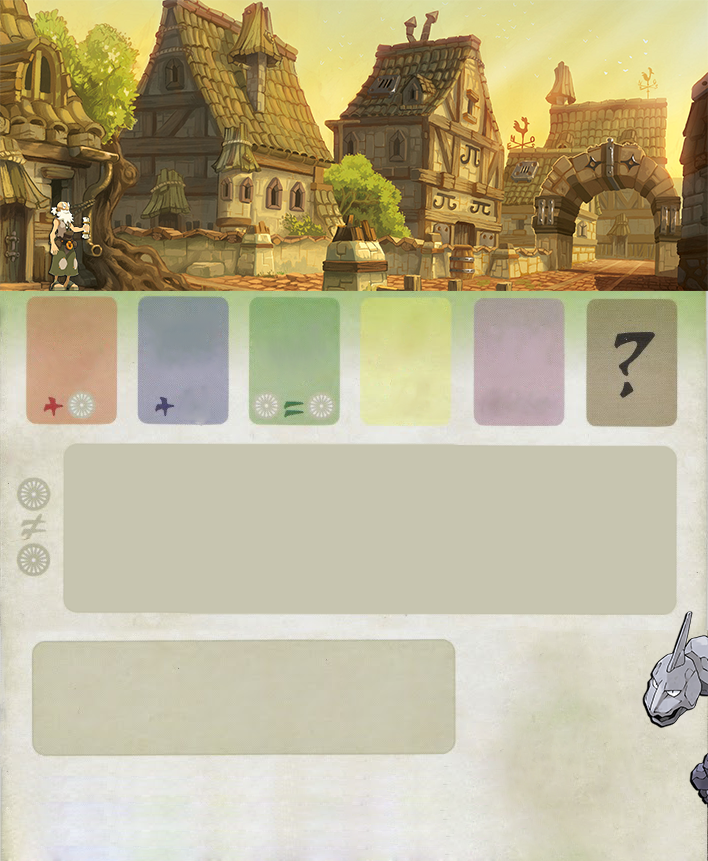
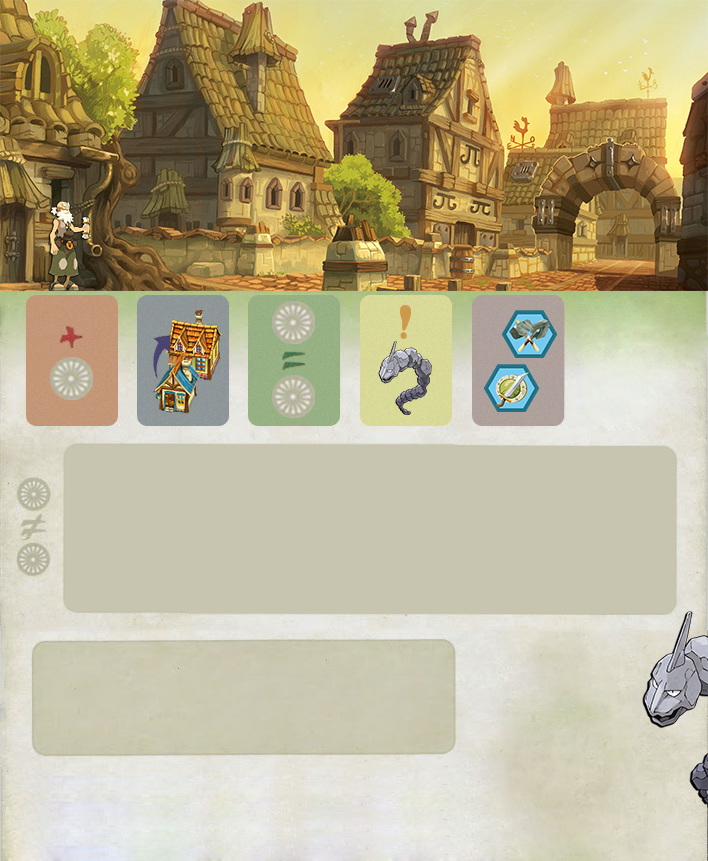
Design 3

Changed region(s): [[0.0311, 0.3322, 0.9633, 0.5134], [0.9944, 0.3926, 1.0, 0.4228]]

diff --git a/src/view/TrayView.java b/src/view/TrayView.java
@@ -16,17 +16,17 @@ public class TrayView extends JPanel {
 	private static final long serialVersionUID = 1L;
 	
 	private static List<ActionButton> buttons = new ArrayList<ActionButton>();
+	private List<Picture> bonus = new ArrayList<Picture>();
 	private List<Picture> images = new ArrayList<Picture>();
 	
 	private Picture tray = new Picture("tray.png", 20, 0, 740, 590);
 	private Picture draw = new Picture("draw.png", 50, 660);
 	
-	private Picture sun = new Picture("weather_sun.png", 40, 255);
-	private Picture rain = new Picture("weather_rain.png", 132, 255);
-	private Picture wind = new Picture("weather_wind.png", 224, 255);
-	private Picture storm = new Picture("weather_storm.png", 320, 255);
-	private Picture cloudy = new Picture("weather_cloudy.png", 412, 255);
-	private Picture choice = new Picture("weather_choice.png", 508, 255);
+	private Picture bonus_one_more_action = new Picture("bonus_one_more_action.png", 41, 253, 121, 86);
+	private Picture bonus_upgrade_house = new Picture("bonus_upgrade_house.png", 133, 253, 121, 86);
+	private Picture bonus_same_action = new Picture("bonus_same_action.png", 226, 253, 121, 86);
+	private Picture bonus_move_monster = new Picture("bonus_move_monster.png", 319, 253, 121, 86);
+	private Picture bonus_help = new Picture("bonus_help.png", 412, 253, 121, 86);
 	
 	private ActionButton actionTiles = new ActionButton("tile", 85, 408, 90, 90);
 	private ActionButton actionRoad = new ActionButton("road", 185, 408, 90, 90);
@@ -92,12 +92,12 @@ public class TrayView extends JPanel {
 		this.add(nbBonusDefense);
 		
 		
-		images.add(sun);
-		images.add(rain);
-		images.add(wind);
-		images.add(storm);
-		images.add(cloudy);
-		images.add(choice);
+		bonus.add(bonus_one_more_action);
+		bonus.add(bonus_upgrade_house);
+		bonus.add(bonus_same_action);
+		bonus.add(bonus_move_monster);
+		bonus.add(bonus_help);
+		
 		images.add(stoneGreen);
 		images.add(stoneBlue);
 		images.add(stoneOrange);
@@ -119,8 +119,14 @@ public class TrayView extends JPanel {
 		for(ActionButton button : buttons)
 			this.add(button);
 		
-		for(Picture w : images)
-			this.add(w);
+		for(Picture b : bonus)
+		{
+			this.add(b);
+			b.setVisible(false);
+		}
+			
+		for(Picture i : images)
+			this.add(i);
 		
 		
 		this.setBackground(TileView.COLOURBACK);
@@ -141,37 +147,12 @@ public class TrayView extends JPanel {
 		
 		this.nbBonusTools.setText(""+ p.getNbBonus(0));
 		this.nbBonusDefense.setText(""+ p.getNbBonus(1));
+				
+		for(Picture b : bonus)
+			b.setVisible(false);
 		
-		this.sun.setBounds(40, 255, 80, 111);
-		this.rain.setBounds(132, 255, 80, 111);
-		this.wind.setBounds(224, 255, 80, 111);
-		this.storm.setBounds(320, 255, 80, 111);
-		this.cloudy.setBounds(412, 255, 80, 111);
-		this.choice.setBounds(508, 255, 80, 111);
-		
-		switch(p.getWeather())
-		{
-			case 1:
-				this.sun.setBounds(37, 255, 87, 121);
-				break;
-			case 2:
-				this.rain.setBounds(129, 255, 87, 121);
-				break;
-			case 3:
-				this.wind.setBounds(221, 255, 87, 121);
-				break;
-			case 4:
-				this.storm.setBounds(317, 255, 87, 121);
-				break;
-			case 5:
-				this.cloudy.setBounds(409, 255, 87, 121);
-				break;
-			case 6:
-				this.choice.setBounds(505, 255, 87, 121);
-				break;
-			default:
-				break;
-		}
+		if(p.getWeather() > 0)
+			bonus.get(p.getWeather() - 1).setVisible(true);
 		
 		this.repaint();
 	}

diff --git a/src/view/ActionButton.java b/src/view/ActionButton.java
@@ -77,7 +77,6 @@ public class ActionButton extends Button {
 	 */
 	public void mousePressed(MouseEvent event) { 
 				
-		
 		switch(imgName)
 		{
 			case "endTurn":
@@ -166,8 +165,8 @@ public class ActionButton extends Button {
 						if(GUI.getPlayer().getWeather() != 3)
 							this.setVisible(false);
 						else
-						if(GUI.getPlayer().getActions().size() > 1)
-							this.setVisible(false);
+							if(GUI.getPlayer().getActions().size() > 1)
+								this.setVisible(false);
 					}
 					
 				}

diff --git a/src/model/Goal.java b/src/model/Goal.java
@@ -33,7 +33,7 @@ public abstract class Goal {
 	public static List<Goal> initGoalsPanda(){
 		List<Goal> goalsPanda = new ArrayList<Goal>();
 		for(int i=0; i<5; i++)
-			goalsPanda.add(new GoalsPanda(1, 3));
+			goalsPanda.add(new GoalsPanda(1,3));
 		for(int i=0; i<4; i++)
 			goalsPanda.add(new GoalsPanda(2,4));
 		for(int i=0; i<3; i++)

diff --git a/src/view/BoardView.java b/src/view/BoardView.java
@@ -106,7 +106,7 @@ public class BoardView extends JPanel implements MouseListener {
 			case 2: // rain
 				if(e.getButton() == MouseEvent.BUTTON1)
 				{
-					if(t.isValid() && t.isRoaded() && t.getType() != 0)
+					if(t.getType() != 0)
 					{
 						t.increase();
 						GUI.getPlayer().setWeather(0);

diff --git a/src/model/Player.java b/src/model/Player.java
@@ -67,7 +67,7 @@ public class Player {
 	}
 	
 	public void randWeather() {
-		this.weather = 1 + (int)(Math.random() * 6);
+		this.weather = 1 + (int)(Math.random() * 5);
 	}
 
 	public int getNbRoad() {
